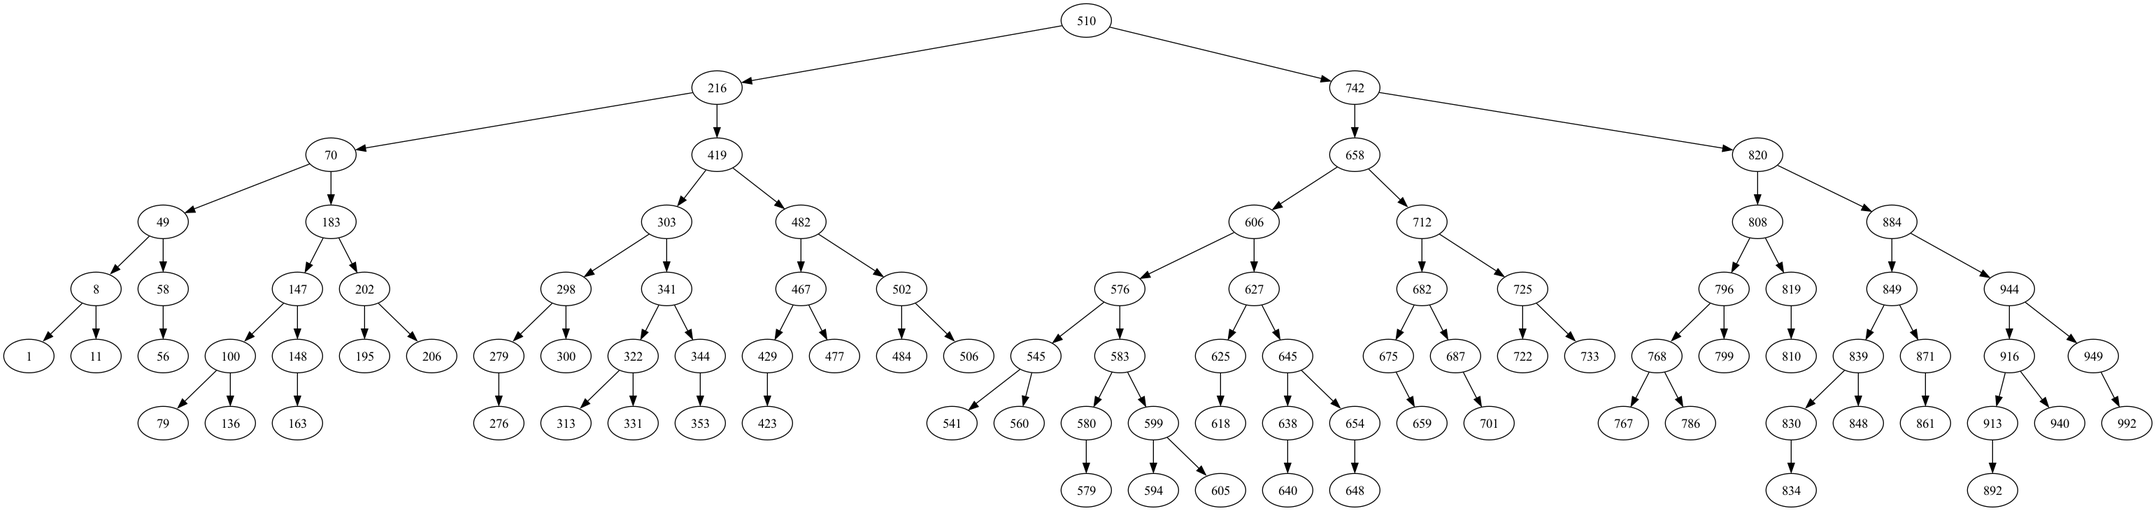
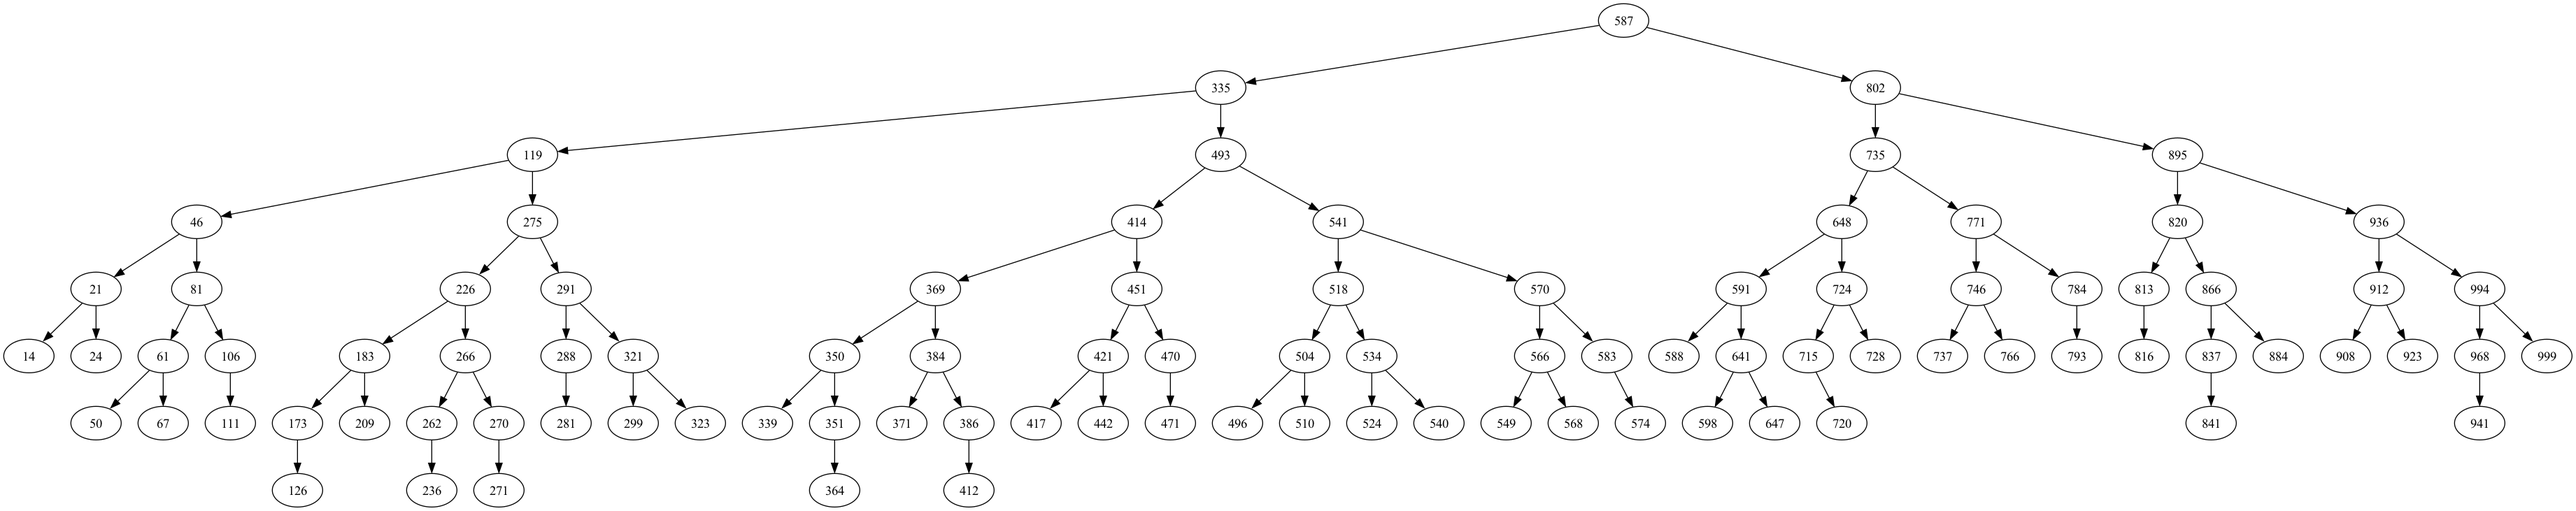
trær fix

diff --git a/Implementasjoner/Traer/TreTester.py b/Implementasjoner/Traer/TreTester.py
@@ -31,15 +31,9 @@ def FyllTilfeldig(tre, ant):
 
 def FyllKonstant(tre):
 
-    tre.root = tre.insert(50)
-    tre.root = tre.insert(100)
-    tre.root = tre.insert(75)
-    tre.root = tre.insert(150)
-    tre.root = tre.insert(10)
-    tre.root = tre.insert(20)
-    tre.root = tre.insert(15)
-    tre.root = tre.insert(5)
-    tre.root = tre.insert(1)
-    tre.root = tre.insert(2)
+    tall_som_fylles = [50, 100, 75, 150, 10, 20, 15, 5, 1, 2, 3]
+
+    for tall in tall_som_fylles:
+        tre.root = tre.insert(tre.root, tall)
 
     visualize(tre)

diff --git a/Implementasjoner/Traer/Visualize.py b/Implementasjoner/Traer/Visualize.py
@@ -16,7 +16,7 @@ def visualize(tre):
 
 def visualizeRekursiv(start, graph):
     if start != None:
-        graph.add_node(start.element, start.height)
+        graph.add_node(start.element)
         if start.left:
             graph.add_edge(start.element, start.left.element)
             visualizeRekursiv(start.left, graph)

diff --git a/Implementasjoner/Traer/AVL.py b/Implementasjoner/Traer/AVL.py
@@ -139,8 +139,8 @@ class AVLtree:
 def test():
     
     avl = AVLtree()
-    FyllKonstant(avl)
-    # FyllTilfeldig(avl, 100)
+    # FyllKonstant(avl)
+    FyllTilfeldig(avl, 100)
     # LiveTest(avl)
     print("Hoyden av treet er:", avl.Height(avl.root))
 
